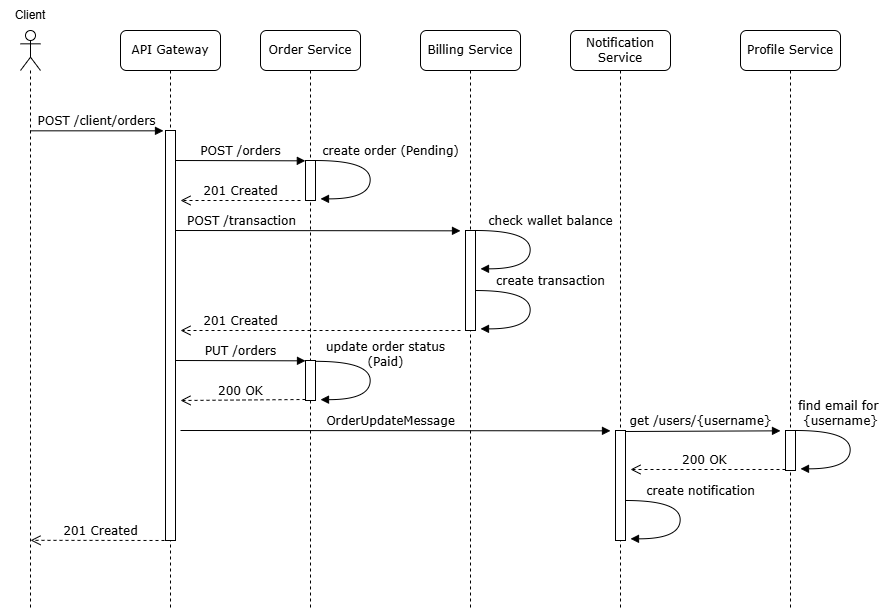
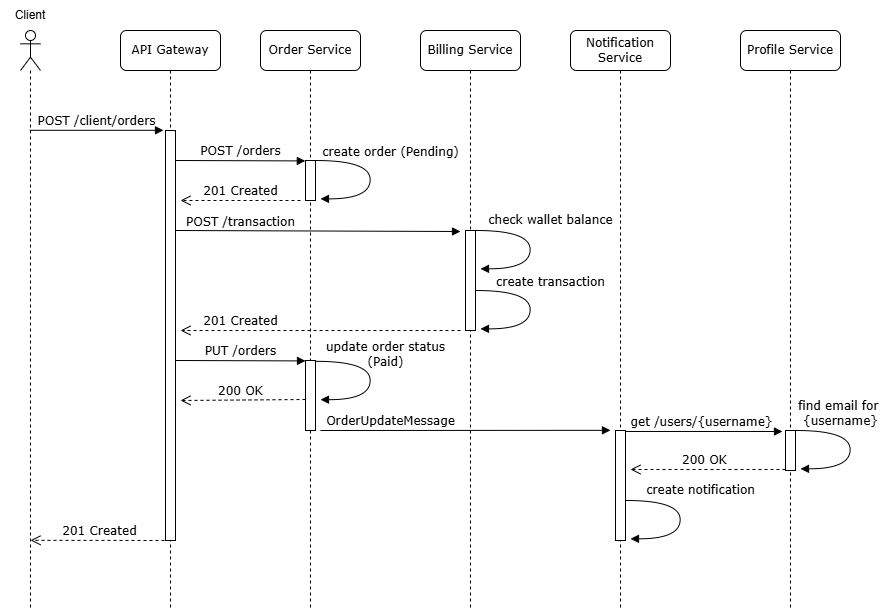
Оформлены 3 варианта архитектуры

diff --git a/theory/01-all_sync.md b/theory/01-all_sync.md
@@ -8,39 +8,37 @@
 ### Создание заказа (только для аутентифицированных клиентов)
 
 1. Клиент отправляет POST запрос на создание заказа на API Gateway
-2. API Gateway валидирует JWT токен и проверяет, что заказ создается на имя пользователя-владельца JWT. Валидирует входные данные
-3. API Gateway направляет запрос на создание заказа в сервис заказов (Orders Service)
-4. Сервис заказов:
+2. API Gateway:
+   - Валидирует JWT токен
+   - Проверяет, что заказ создается на имя пользователя-владельца JWT
+   - Валидирует входные данные
+   - Направляет запрос на создание заказа в сервис заказов (Orders Service)
+3. Сервис заказов:
    - Генерирует ID для нового заказа
    - Создает новый заказ со статусом "Pending"
    - Возвращает ID и информацию о созданном заказе
-5. API Gateway принимает информацию о созданном заказе и направляет запрос на оплату в сервис биллинга (Billing Service)
-6. Сервис биллинга:
+4. API Gateway принимает информацию о созданном заказе и направляет запрос на оплату в сервис биллинга (Billing Service)
+5. Сервис биллинга:
    - Проверяет текущий баланс кошелька пользователя
    - Если средств достаточно:
      - Создает новую операцию по кошельку пользователя на сумму заказа
      - Возвращает реквизиты созданной операции
    - Если средств недостаточно:
      - Возвращает ошибку 406 с пояснением "Недостаточно средств"
-7. API Gateway принимает информацию от сервиса биллинга и направляет запрос на обновление статуса заказа в сервис заказов (Order Service)
-8. Сервис заказов:
+6. API Gateway принимает информацию от сервиса биллинга и направляет запрос на обновление статуса заказа в сервис заказов (Order Service)
+7. Сервис заказов:
    - Если оплата не успешна, переводит заказ в статус "Отменен"
-   - Если оплата успешна, преводит заказ в статус "Оплачен"
+   - Если оплата успешна:
+     - Переводит заказ в статус "Оплачен"
+     - Записывает ID операции оплаты из сервиса биллинга в сведения о заказе
    - Возвращает обновленные сведения о заказе
-9. API Gateway принимает информацию от сервиса заказов и направляет запрос в сервис нотификаций (Notification Service)
-10. Сервис нотификаций
+8. API Gateway принимает информацию от сервиса заказов и направляет запрос в сервис нотификаций (Notification Service)
+9. Сервис нотификаций
    - Обращается в сервис профилей за контактными данными клиента
    - Если заказ в статусе "Оплачен", отправляет "Письмо счастья" на почту клиента
    - Если заказ в статусе "Отменен", отправляет "Письмо горя" на почту клиента
    - Возвращает ID созданного письма
-11. API Gateway возвращает информацию о созданном заказе пользователю
-
-### Обработка новых пользователей
-
-1. При регистрации нового пользователя, сервис авторизации (Auth Service):
-   - Создает пользователя
-   - Синхронно вызывает сервис профилей для создания профиля
-   - Синхронно вызывает сервис биллинга для создания счета
+10. API Gateway возвращает информацию о созданном заказе пользователю
 
 ### Sequence диаграмма
 ![Sequence диаграмма](img/01-sequence_all_sync.png)   

diff --git a/theory/02-notif_async.md b/theory/02-notif_async.md
@@ -8,40 +8,37 @@
 ### Создание заказа (только для аутентифицированных клиентов)
 #### Синхронная часть
 1. Клиент отправляет POST запрос на создание заказа на API Gateway
-2. API Gateway валидирует JWT токен и проверяет, что заказ создается на имя пользователя-владельца JWT. Валидирует входные данные
-3. API Gateway направляет запрос на создание заказа в сервис заказов (Orders Service)
-4. Сервис заказов:
+2. API Gateway:
+   - Валидирует JWT токен
+   - Проверяет, что заказ создается на имя пользователя-владельца JWT
+   - Валидирует входные данные
+   - Направляет запрос на создание заказа в сервис заказов (Orders Service)
+3. Сервис заказов:
    - Генерирует ID для нового заказа
    - Создает новый заказ со статусом "Pending"
    - Возвращает ID и информацию о созданном заказе
-5. API Gateway принимает информацию о созданном заказе и направляет запрос на оплату в сервис биллинга (Billing Service)
-6. Сервис биллинга:
+4. API Gateway принимает информацию о созданном заказе и направляет запрос на оплату в сервис биллинга (Billing Service)
+5. Сервис биллинга:
    - Проверяет текущий баланс кошелька пользователя
    - Если средств достаточно:
      - Создает новую операцию по кошельку пользователя на сумму заказа
      - Возвращает реквизиты созданной операции
    - Если средств недостаточно:
      - Возвращает ошибку 406 с пояснением "Недостаточно средств"
-7. API Gateway принимает информацию от сервиса биллинга и направляет запрос на обновление статуса заказа в сервис заказов (Order Service)
-8. Сервис заказов:
+6. API Gateway принимает информацию от сервиса биллинга и направляет запрос на обновление статуса заказа в сервис заказов (Order Service)
+7. Сервис заказов:
    - Если оплата не успешна, переводит заказ в статус "Отменен"
-   - Если оплата успешна, преводит заказ в статус "Оплачен"
+     - Переводит заказ в статус "Оплачен"
+     - Записывает ID операции оплаты из сервиса биллинга в сведения о заказе
    - Возвращает обновленные сведения о заказе
 
 #### Асинхронная часть
 1. После обновления статуса заказа сервис заказов публикует сообщение OrderUpdateMessage в брокере (KafkaProducer) в топик "orders"
 2. Сервис нотификаций:
-   - Подписан на топик, читает сообщение, извлекает данные о заказе
+   - Принимает сообщение OrderUpdateMessage из топика orders
    - Обращается в сервис профилей за контактными данными клиента (синхронно)
    - Если заказ в статусе "Оплачен", отправляет "Письмо счастья" на почту клиента
    - Если заказ в статусе "Отменен", отправляет "Письмо горя" на почту клиента
-
-### Обработка новых пользователей
-
-1. При регистрации нового пользователя, сервис авторизации (Auth Service):
-   - Создает пользователя
-   - Синхронно вызывает сервис профилей для создания профиля
-   - Синхронно вызывает сервис биллинга для создания счета
 
 ### Sequence диаграмма
 ![Sequence диаграмма](img/02-sequence_notif_async.png)

diff --git a/theory/idl/03_all_async.md b/theory/idl/03_all_async.md
@@ -9,55 +9,6 @@ info:
   title: Order Service
   version: 1.0.0
 paths:
-  /orders:
-    put:
-      tags:
-      - Orders
-      summary: Update order status
-      operationId: order_update_status_orders_put
-      requestBody:
-        content:
-          application/json:
-            schema:
-              $ref: '#/components/schemas/OrderUpdateEvent'
-        required: true
-      responses:
-        '200':
-          description: Successful Response
-          content:
-            application/json:
-              schema:
-                $ref: '#/components/schemas/OrderReturn'
-        '422':
-          description: Validation Error
-          content:
-            application/json:
-              schema:
-                $ref: '#/components/schemas/HTTPValidationError'
-    post:
-      tags:
-      - Orders
-      summary: Create new order
-      operationId: order_create_new_orders_post
-      requestBody:
-        content:
-          application/json:
-            schema:
-              $ref: '#/components/schemas/OrderCreate'
-        required: true
-      responses:
-        '201':
-          description: Successful Response
-          content:
-            application/json:
-              schema:
-                $ref: '#/components/schemas/OrderReturn'
-        '422':
-          description: Validation Error
-          content:
-            application/json:
-              schema:
-                $ref: '#/components/schemas/HTTPValidationError'
   /orders/id/{order_id}:
     get:
       tags:
@@ -116,33 +67,6 @@ paths:
                 $ref: '#/components/schemas/HTTPValidationError'
 components:
   schemas:
-    HTTPValidationError:
-      properties:
-        detail:
-          items:
-            $ref: '#/components/schemas/ValidationError'
-          type: array
-          title: Detail
-      type: object
-      title: HTTPValidationError
-    OrderCreate:
-      properties:
-        price:
-          anyOf:
-          - type: number
-          - type: string
-            pattern: ^(?!^[-+.]*$)[+-]?0*(?:\d{0,13}|(?=[\d.]{1,16}0*$)\d{0,13}\.\d{0,2}0*$)
-          title: Price
-        username:
-          type: string
-          maxLength: 100
-          minLength: 1
-          title: Username
-      type: object
-      required:
-      - price
-      - username
-      title: OrderCreate
     OrderReturn:
       properties:
         price:
@@ -178,26 +102,6 @@ components:
       - placed_at
       - updated_at
       title: OrderReturn
-    OrderUpdateEvent:
-      properties:
-        event:
-          type: string
-          title: Event
-        id:
-          type: string
-          format: uuid
-          title: Id
-        payment_id:
-          anyOf:
-          - type: string
-            format: uuid
-          - type: 'null'
-          title: Payment Id
-      type: object
-      required:
-      - event
-      - id
-      title: OrderUpdateEvent
     ValidationError:
       properties:
         loc:
@@ -817,8 +721,46 @@ components:
 ```
 
 ## Kafka
-### Топик orders
-Собщение об обновлении заказа
+### Топик orders.create
+Собщение о запросе на создание заказа
+- **Producer**: API Gateway
+- **Consumer**: Orders Service
+- **Message structure**: OrderCreateRequested
+```json
+{
+  "username": "string",
+  "price": "decimal"
+}
+```
+
+### Топик orders.pending
+Собщение о запросе на создание заказа
+- **Producer**: Orders Service
+- **Consumer**: Billing Service
+- **Message structure**: OrderPending
+```json
+{
+  "order_id": "uuid",
+  "username": "string",
+  "amount": "decimal"
+}
+```
+
+### Топик billing.payments
+Собщение об обработанных запросах на оплату
+- **Producer**: Billing Service
+- **Consumer**: Orders Service
+- **Message structure**: PaymentProcessed
+```json
+{
+  "order_id": "uuid",
+  "paid": "boolean",
+  "payment_id": "uuid",
+}
+```
+
+### Топик ordersnotifications.orders
+Собщение о необходимости отправки уведомления
 - **Producer**: Orders Service
 - **Consumer**: Notification Service
 - **Message structure**: OrderUpdateMessage

diff --git a/theory/03-full_async.md b/theory/03-full_async.md
@@ -1,0 +1,55 @@
+# Event Collaboration cтиль взаимодействия с использованием брокера сообщений
+
+## Задача
+Спроектировать взаимодействие API Gateway и микросервисов при создании заказа клиентом. Использовать только aсинхронное взаимодействие через события
+
+## Решение
+
+### Создание заказа (только для аутентифицированных клиентов)
+1. Клиент отправляет POST запрос на создание заказа на API Gateway
+2. API Gateway:
+   - Валидирует JWT токен
+   - Проверяет, что заказ создается на имя пользователя-владельца JWT
+   - Валидирует входные данные
+   - Публикует сообщение OrderCreateRequested в топик orders.create
+3. Сервис заказов:
+   - Принимает сообщение OrderCreateRequested из топика orders.create
+   - Создает новый заказ со статусом "Pending"
+   - Публикует сообщение OrderPending в топик orders.pending
+4. Сервис биллинга:
+   - Принимает сообщение OrderPending из топика orders.pending
+   - Проверяет текущий баланс кошелька пользователя
+   - Если средств достаточно:
+     - Создает новую операцию по кошельку пользователя на сумму заказа
+     - Публикует событие PaymentProcessed c paid = true и ID созданной операции оплаты в топик billing.payments
+   - Если средств недостаточно:
+     - Публикует событие PaymentProcessed c paid = false в топик billing.payments
+5. Сервис заказов:
+   - Принимает сообщение PaymentProcessed из топика billing.payments
+     - Если paid = false, переводит заказ в статус "Отменен"
+     - Если paid = true, преводит заказ в статус "Оплачен" и записывает ID операции оплаты в сведения о заказе
+   - Публикует сообщение OrderUpdateMessage в топик notifications.orders
+6. Сервис нотификаций:
+   - Принимает сообщение OrderUpdateMessage из топика notifications.orders
+   - Обращается в сервис профилей за контактными данными клиента (синхронно)
+   - Если заказ в статусе "Оплачен", отправляет "Письмо счастья" на почту клиента
+   - Если заказ в статусе "Отменен", отправляет "Письмо горя" на почту клиента
+
+### Sequence диаграмма
+![Sequence диаграмма](img/03-sequence_all_async.png)
+
+### Описание API
+[Описание API](idl/03_all_async.md)
+
+## Плюсы
+- Низкая связность сервисов
+- Падение одного сервиса не блокирует работу других
+- Возможность повторной отправки "зависших" сообщений
+- Статус операции не зависит от отправки уведомлений
+- Гибкость масштабирования
+
+## Минусы
+- Все ещё высокое latency
+- Клиент не получает прямого ответа о статусе обработки своего запроса
+- Сложность сопровождения, отладки и разработки
+- Выход из строя брокера остановит всю работу, а не только отправку уведомлений

diff --git a/README.md b/README.md
@@ -57,8 +57,12 @@ III) тесты постмана, которые прогоняют сценар
 ## ТЕОРЕТИЧЕСКАЯ ЧАСТЬ
 - [только HTTP взаимодействие](theory/01-all_sync.md)  
 - [событийное взаимодействие для нотификаций](theory/02-notif_async.md)
+- [Event Collaboration](theory/03-full_async.md)
 
 ## ПРАКТИЧЕСКАЯ ЧАСТЬ
+### Выбранная архитектура
+- [событийное взаимодействие для нотификаций](theory/02-notif_async.md)
+
 ### Ссылки на репозитории с исходниками микросервисов
 #### Auth (A&A) Service
 https://github.com/ilyhaspmarine/Otus_mini_auth
